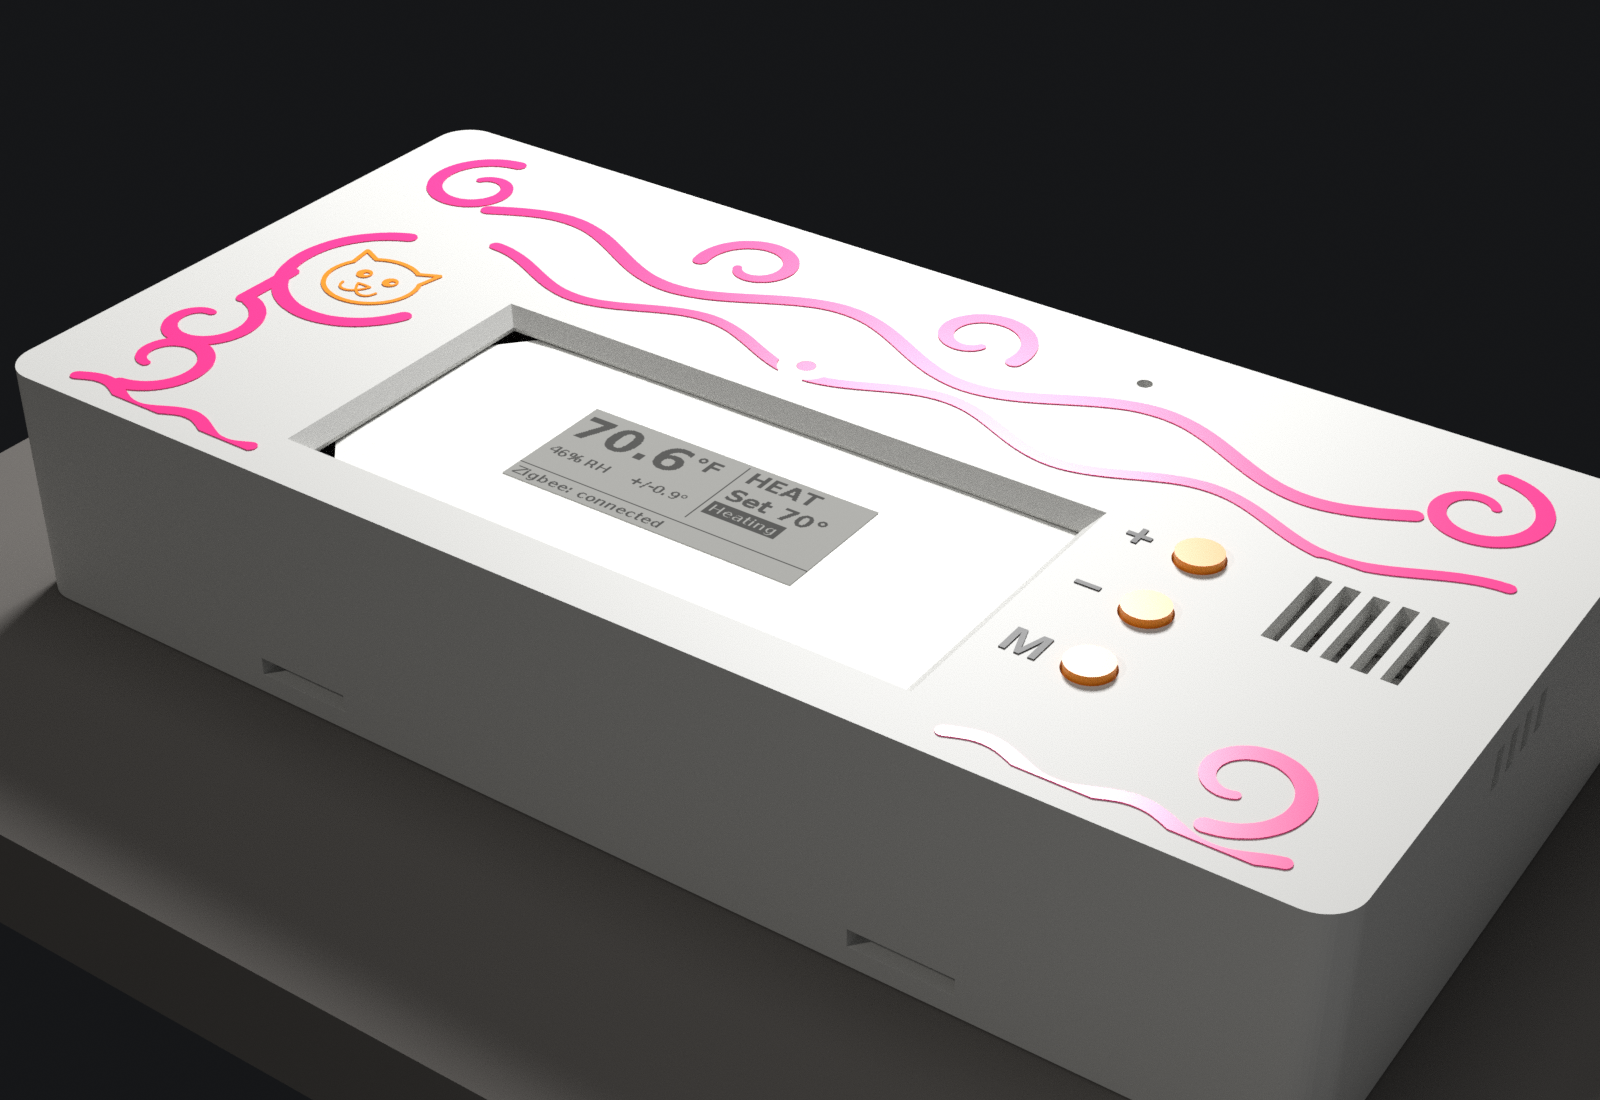
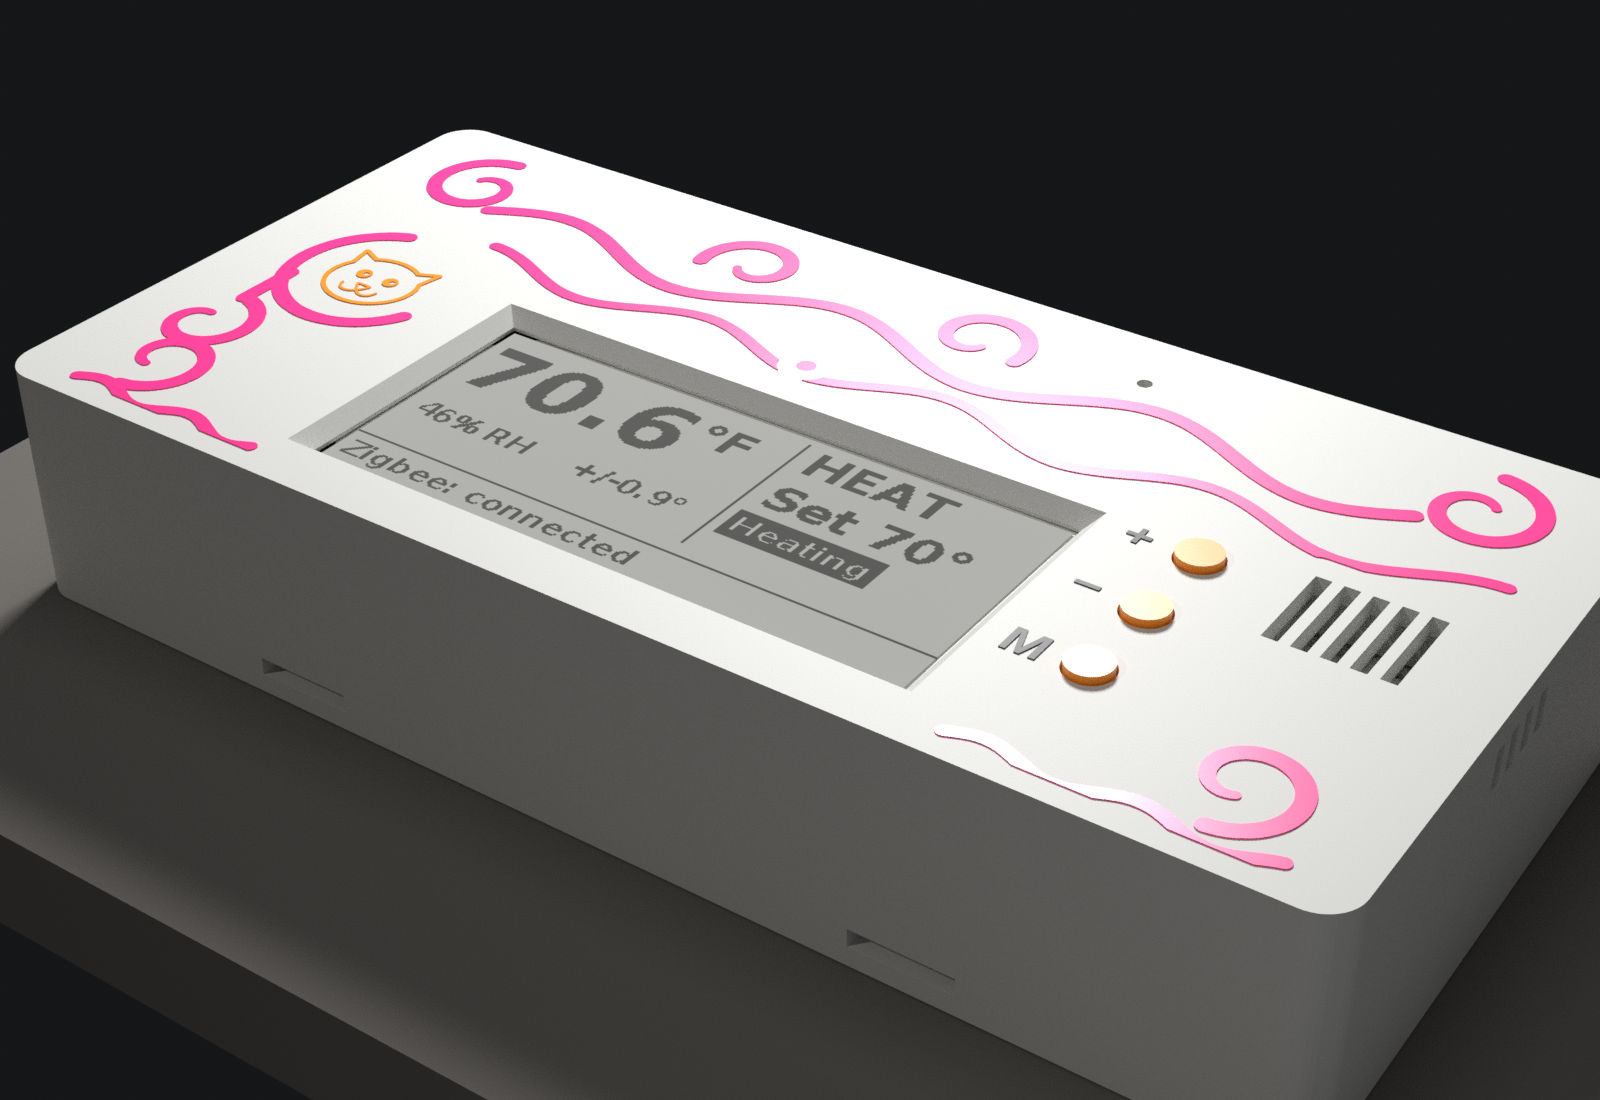
Renders: EPD preview fills the GDEY029T94 active area
Blender 4.x plane size=1 is 1x1 mm, but the screen plane was still
scaled by half (old 2x2 assumption), so display_preview.png covered
only ~1/4 of the AA. Scale to the full 66.9x29.06 mm active area,
apply scale into the mesh, and re-render assembled + exploded views.
Case window is AA+0.5 mm (matches); preview is full-bleed 296x128.

Changed region(s): [[0.1875, 0.2782, 0.6875, 0.6182]]

diff --git a/renders/render.py b/renders/render.py
@@ -225,23 +225,27 @@ cyl(ccx, ccy, pz - 9.5, pz - 0.5, 8.0, M['cap'])
 cyl(ccx, ccy, pz - 9.6, pz - 9.4, 7.0, M['metal'])
 box(ccx - 4.1, ccy - 1.2, pz - 9.0, ccx - 3.6, ccy + 1.2, pz - 1.0, M['white'], 'C43stripe')
 
-# ---- EPD panel
+# ---- EPD panel (GDEY029T94: outline 79.0x36.7, AA 66.896x29.056 per datasheet)
 panel = (29.46, 26.24, 108.46, 62.94)
-aa = (32.46, 30.06, 99.36, 59.12)
+aa = (32.46, 30.06, 99.36, 59.12)  # board coords; AA 66.9 x 29.06 mm
 ezb = Zpb + PT + 5.0 + (E_EPD - E_PCB) + E_PCB
 box(cx(panel[0]), cy(panel[3]), ezb, cx(panel[2]), cy(panel[1]), ezb + 1.2, M['epd'], 'EPD')
-# Active-area screen plane with firmware preview image (assembled / closed views)
+# Active-area screen: firmware preview is full-bleed 296x128 (docs PNG is 2x)
+# Blender 4.x plane size=N is NxN (NOT 2x2); scale must be the full AA extents.
 sx0, sx1 = cx(aa[0]), cx(aa[2])
 sy0, sy1 = cy(aa[3]), cy(aa[1])  # cy flips board-y
-sz = ezb + 1.28
+aa_w, aa_h = abs(sx1 - sx0), abs(sy1 - sy0)  # ~66.9 x 29.06
+sz = ezb + 1.28  # just above panel front (panel_t=1.2)
 bpy.ops.mesh.primitive_plane_add(
     size=1, location=((sx0 + sx1) / 2, (sy0 + sy1) / 2, sz)
 )
 screen = bpy.context.object
 screen.name = 'EPDscreen'
-screen.scale = (abs(sx1 - sx0) / 2, abs(sy1 - sy0) / 2, 1)  # plane is 2x2 by default at size=1? size=1 => 1x1
-# Blender plane size=1 is 2x2 units from -1..1; use scale half-extents:
-screen.scale = (abs(sx1 - sx0) / 2, abs(sy1 - sy0) / 2, 1)
+screen.scale = (aa_w, aa_h, 1)
+# Bake non-uniform scale into the mesh so UVs span the real AA (avoids 4.x size=1 half-scale bug class)
+bpy.context.view_layer.objects.active = screen
+bpy.ops.object.transform_apply(location=False, rotation=False, scale=True)
+print(f'EPD AA plane mm: {screen.dimensions.x:.2f} x {screen.dimensions.y:.2f} (expect ~66.90 x 29.06)')
 
 # E-paper: sRGB preview as emission (crisp, lighting-independent) + slight diffuse paper
 em = bpy.data.materials.new('epd_img')
@@ -257,6 +261,7 @@ tex = nt.nodes.new('ShaderNodeTexImage')
 if os.path.isfile(EPD_IMG):
     tex.image = bpy.data.images.load(EPD_IMG)
     tex.image.colorspace_settings.name = 'sRGB'
+    tex.extension = 'CLIP'
 else:
     tex.image = None
 bsdf.inputs['Roughness'].default_value = 0.7
